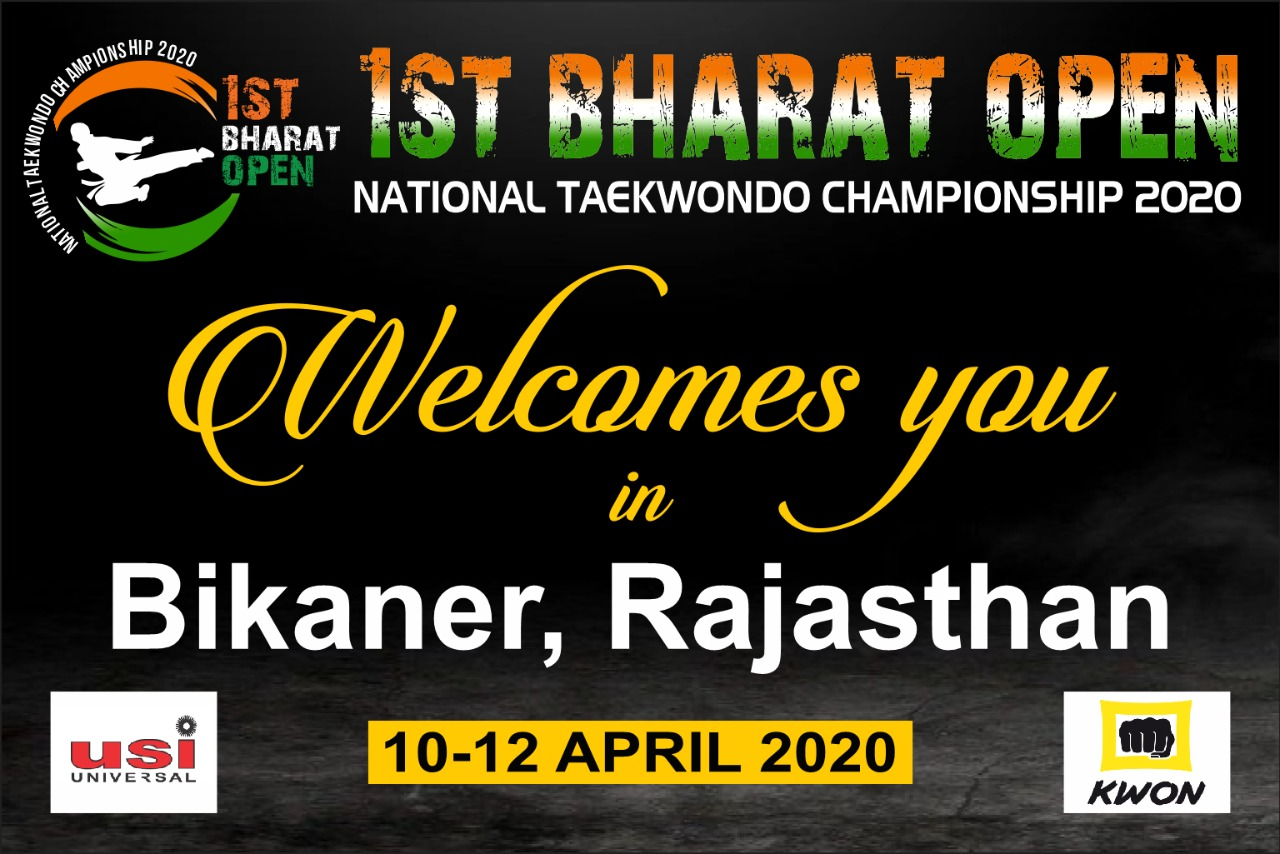
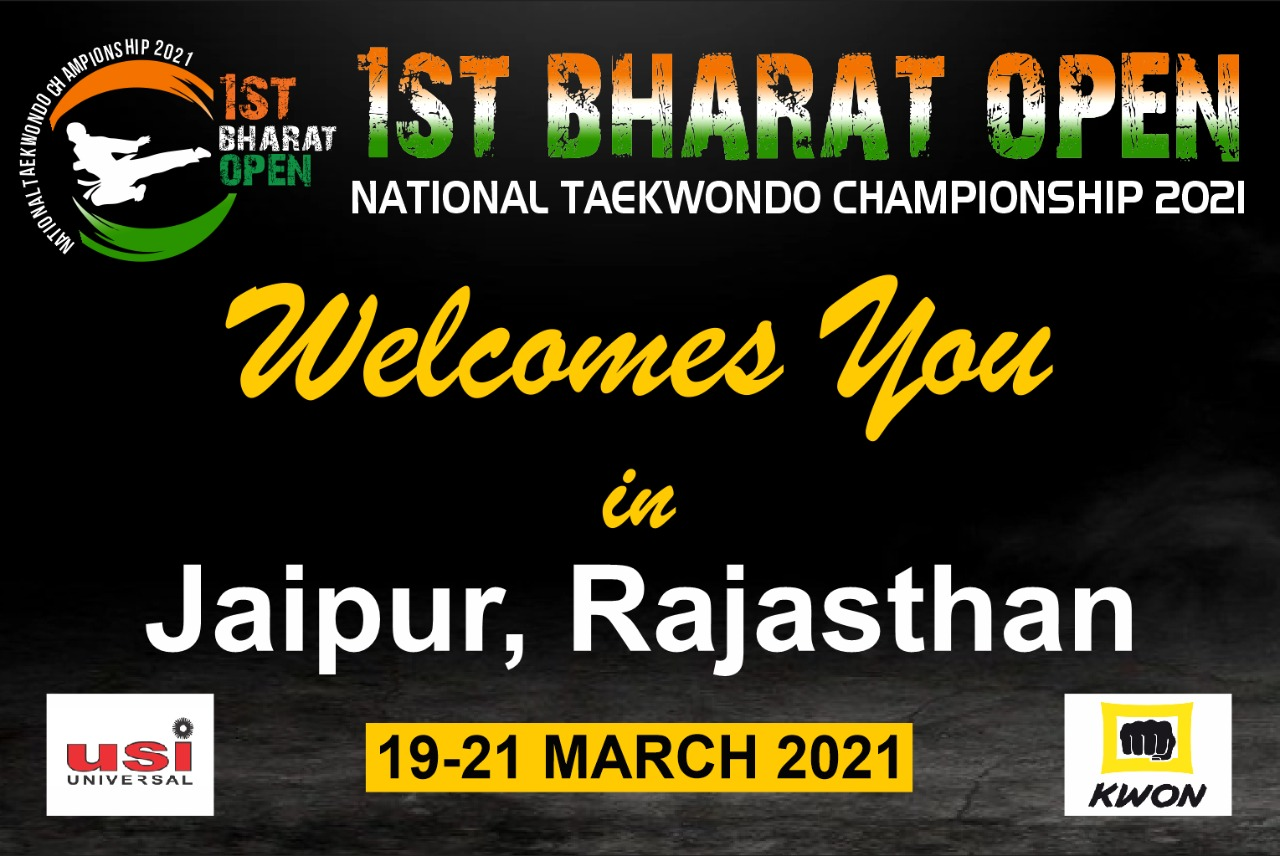
Changes as per 2021

diff --git a/index.html b/index.html
@@ -37,7 +37,7 @@
     <div class="container clearfix">
       <div class="contact-info float-left">
         <!--<i class="fa fa-envelope-o"></i> <a href="mailto:nehansh_jain@yahoo.com">Mail to Technical Director</a>-->
-        <i class="fa fa-whatsapp"></i> +91 77195 98053
+        <i class="fa fa-whatsapp"></i> +91 9660380663
       </div>
     </div>
   </section>
@@ -79,11 +79,11 @@
 
     <div class="intro-content">
       <h2>COME AND FIGHT with the <span>BEST!</span><br></h2>
-      <h6><b>BIKANER, RAJASTHAN <p></p> 10-12 April 2020</b></h6>
-      <div>
-        <a href="letter.pdf" class="btn-get-started scrollto" download>Download Letter</a>
-        <a href="#call-to-action" class="btn-projects scrollto">Register</a>
-      </div>
+      <h6><b>JAIPUR, RAJASTHAN <p></p> 19-21 MARCH 2021</b></h6>
+        <!-- <div>
+          <a href="letter.pdf" class="btn-get-started scrollto" download>Download Letter</a>
+          <a href="#call-to-action" class="btn-projects scrollto">Register</a>
+        </div> -->
     </div>
 
 <!--SLider background Images-->
@@ -109,7 +109,7 @@
           </div>
 
           <div class="col-lg-6 content">
-            <h2>BIGGEST CHAMPIONSHIP of 2020</h2>
+            <h2>BIGGEST CHAMPIONSHIP of 2021</h2>
             <h3>HUGE CASH PRIZES, BEST in CLASS COMPETITION, GREAT PLATFORM AND EXPOSURE</h3>
 
             <ul>
@@ -208,16 +208,16 @@
       <div class="container-fluid">
         <div class="row no-gutters">
 
-          <div class="col-lg-3 col-md-4">
+          <!-- <div class="col-lg-3 col-md-4">
             <div class="portfolio-item wow fadeInUp">
               <a href="img/portfolio/1.jpg" class="portfolio-popup">
                 <img src="img/portfolio/1.jpg" alt="">
                 <div class="portfolio-overlay">
-                  <div class="portfolio-info"><h2 class="wow fadeInUp">Announcement</h2></div>
+                  <div class="portfolio-info"><h2 class="wow fadeInUp">Main Poster</h2></div>
                 </div>
               </a>
             </div>
-          </div>
+          </div> -->
 
           <div class="col-lg-3 col-md-4">
             <div class="portfolio-item wow fadeInUp">
@@ -313,7 +313,8 @@
             <p class="cta-text"> INDIVIDUAL REGISTRATION FORM</p>
           </div>
           <div class="col-lg-3 cta-btn-container text-center">
-            <a class="cta-btn align-middle" href="register.html">Fill Form</a>
+            <!-- <a class="cta-btn align-middle" href="register.html">Fill Form</a> -->
+            <p class="cta-btn align-middle">Opening Soon</p>
           </div>
         </div>
 
@@ -411,7 +412,7 @@
             <div class="contact-address">
               <i class="ion-ios-location-outline"></i>
               <h3>VENUE</h3>
-              <address>Yet to be Announced</address>
+              <address>Jaipur, Rajasthan</address>
             </div>
           </div>
 
@@ -419,7 +420,7 @@
             <div class="contact-phone">
               <i class="ion-ios-telephone-outline"></i>
               <h3>Phone Number</h3>
-              <p><a href="tel:+91-7719598053">+91-7719598053</a></p>
+              <p><a href="tel:+91-9660380663">+91-9660380663</a></p>
             </div>
           </div>
 
@@ -435,7 +436,7 @@
       </div>
 
       <div class="container mb-4">
-        <iframe src="https://www.google.com/maps/embed?pb=!1m18!1m12!1m3!1d56353.608244236835!2d73.28452104138762!3d28.02140351155935!2m3!1f0!2f0!3f0!3m2!1i1024!2i768!4f13.1!3m3!1m2!1s0x393fdd7bd90bbb89%3A0x4ce3121a7664816b!2sBikaner%2C%20Rajasthan!5e0!3m2!1sen!2sin!4v1582918021558!5m2!1sen!2sin" width="100%" height="380" frameborder="0" style="border:0" allowfullscreen></iframe>
+        <iframe src="https://www.google.com/maps/embed?pb=!1m18!1m12!1m3!1d227748.38256619594!2d75.65047125625183!3d26.885447916107587!2m3!1f0!2f0!3f0!3m2!1i1024!2i768!4f13.1!3m3!1m2!1s0x396c4adf4c57e281%3A0xce1c63a0cf22e09!2sJaipur%2C%20Rajasthan!5e0!3m2!1sen!2sin!4v1612266573214!5m2!1sen!2sin" width="600" height="450" frameborder="0" style="border:0;" allowfullscreen="" aria-hidden="false" tabindex="0"></iframe>
       </div>
 
   </main>
